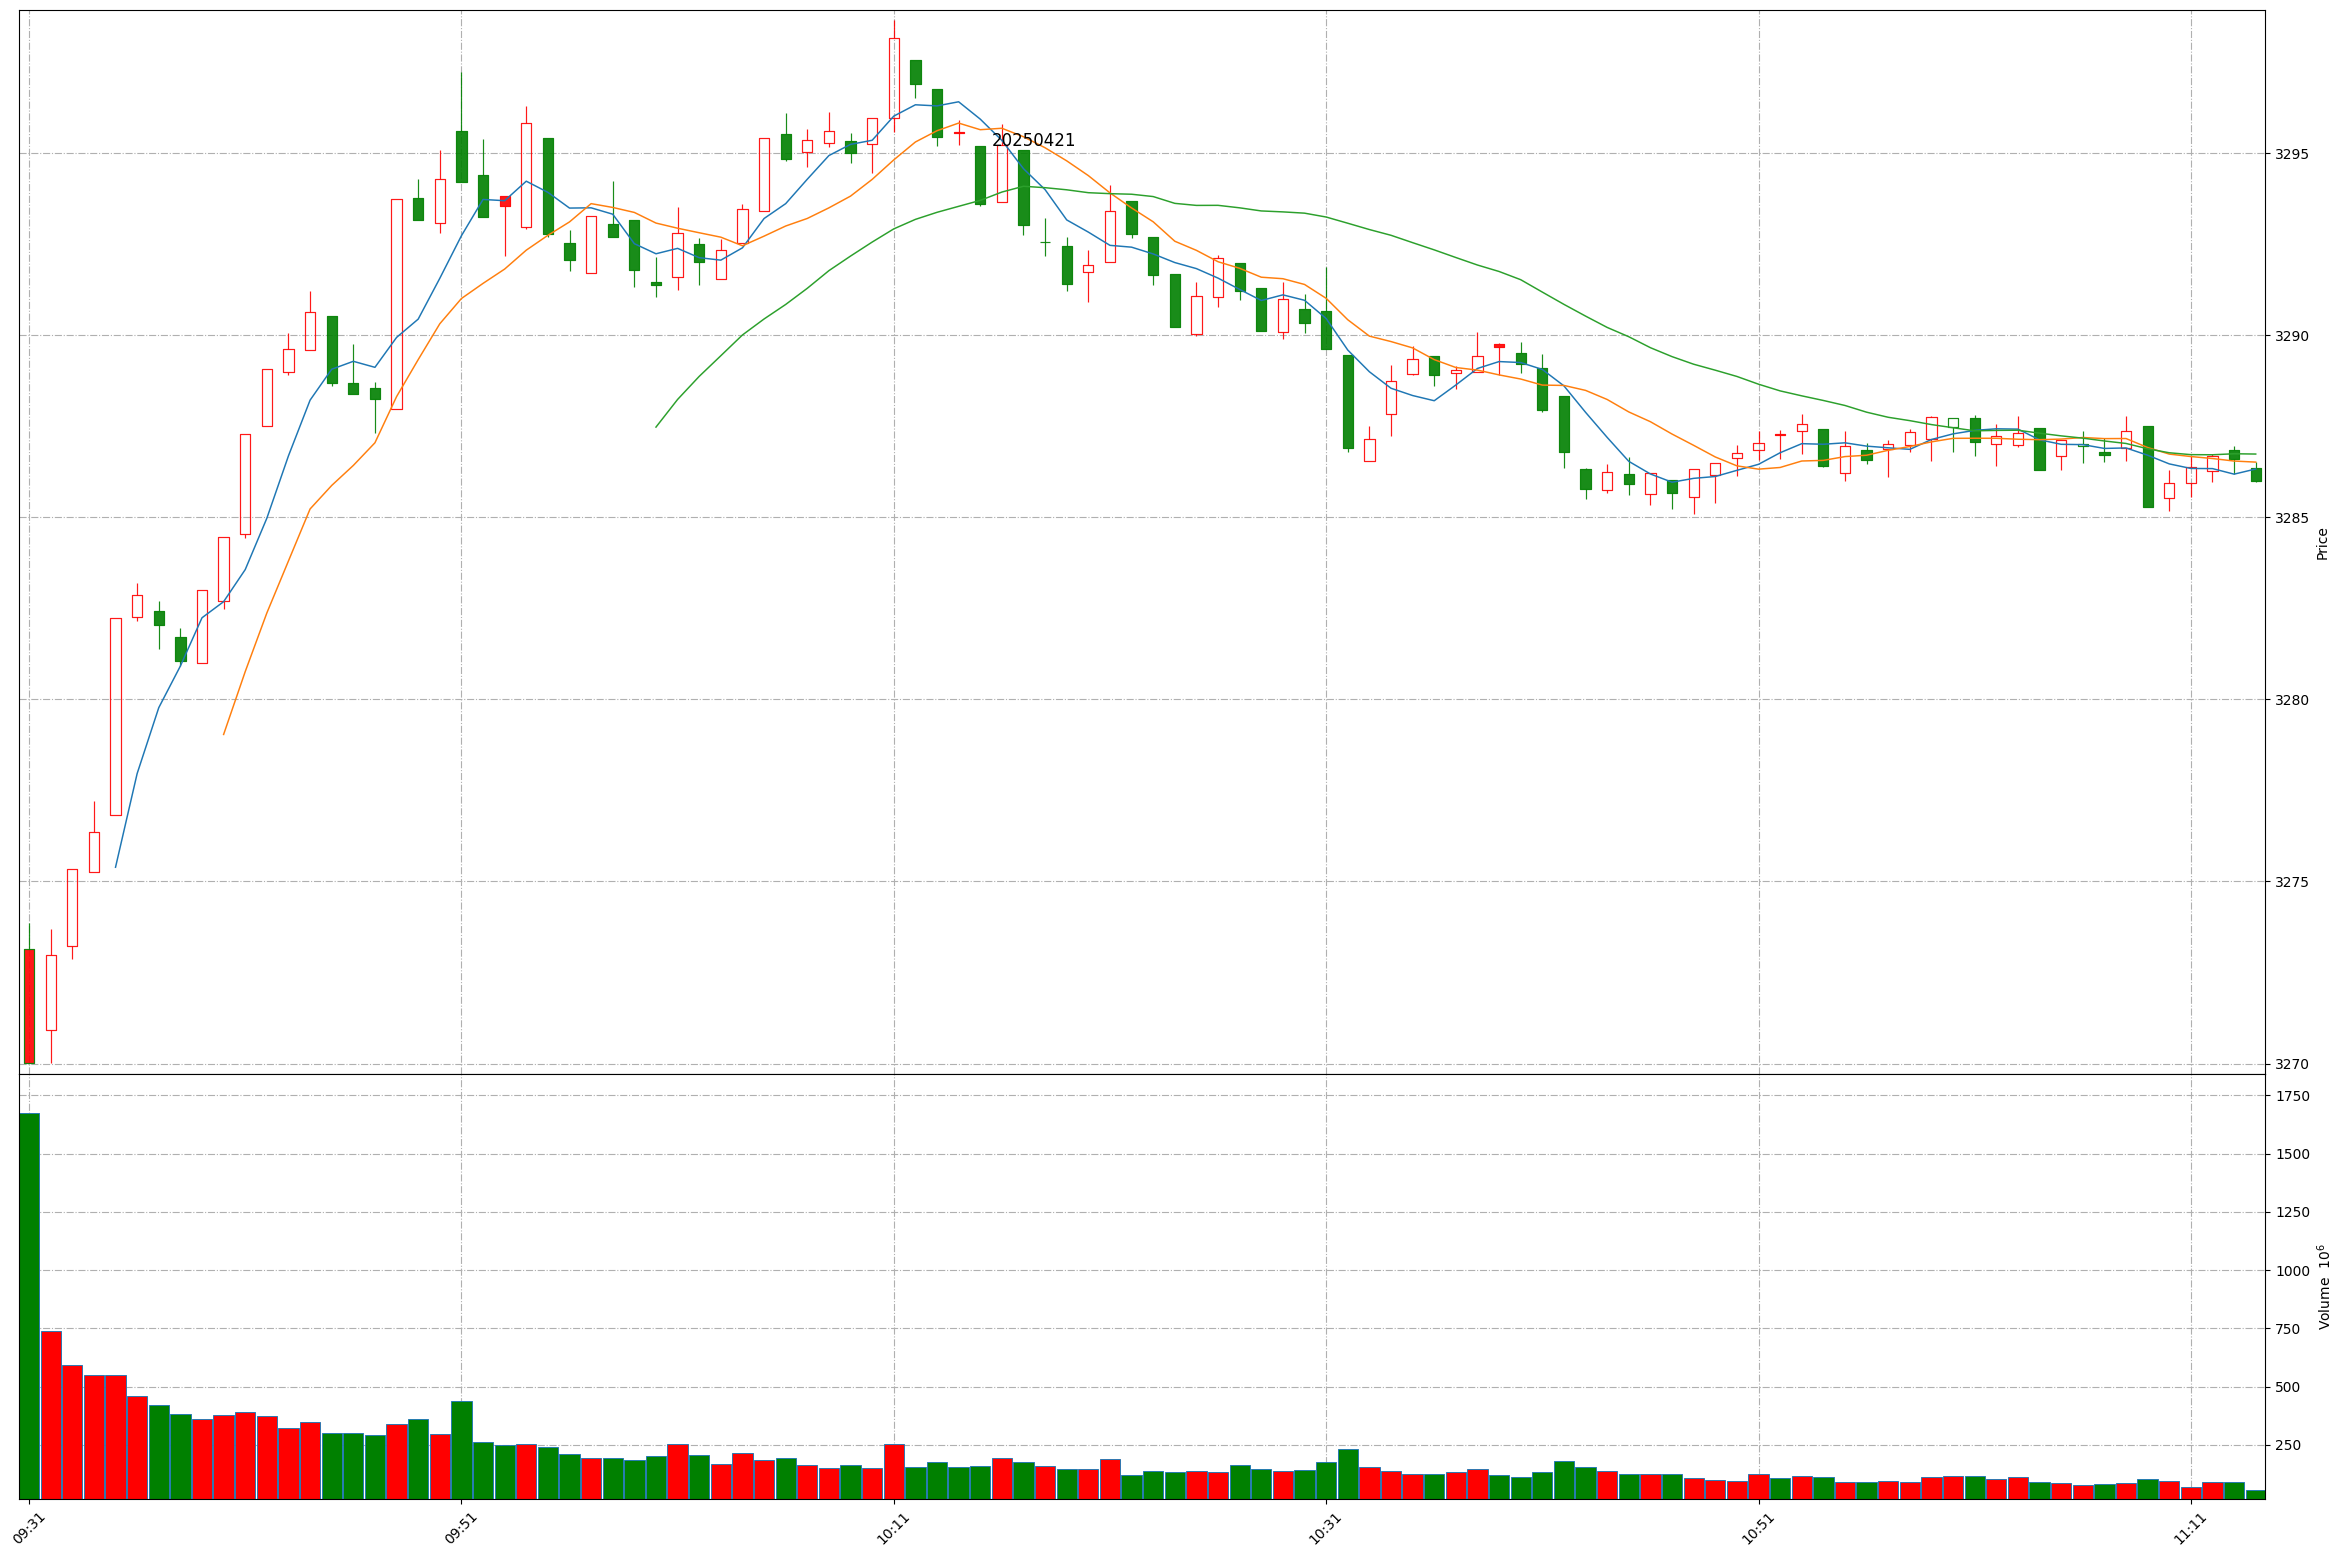
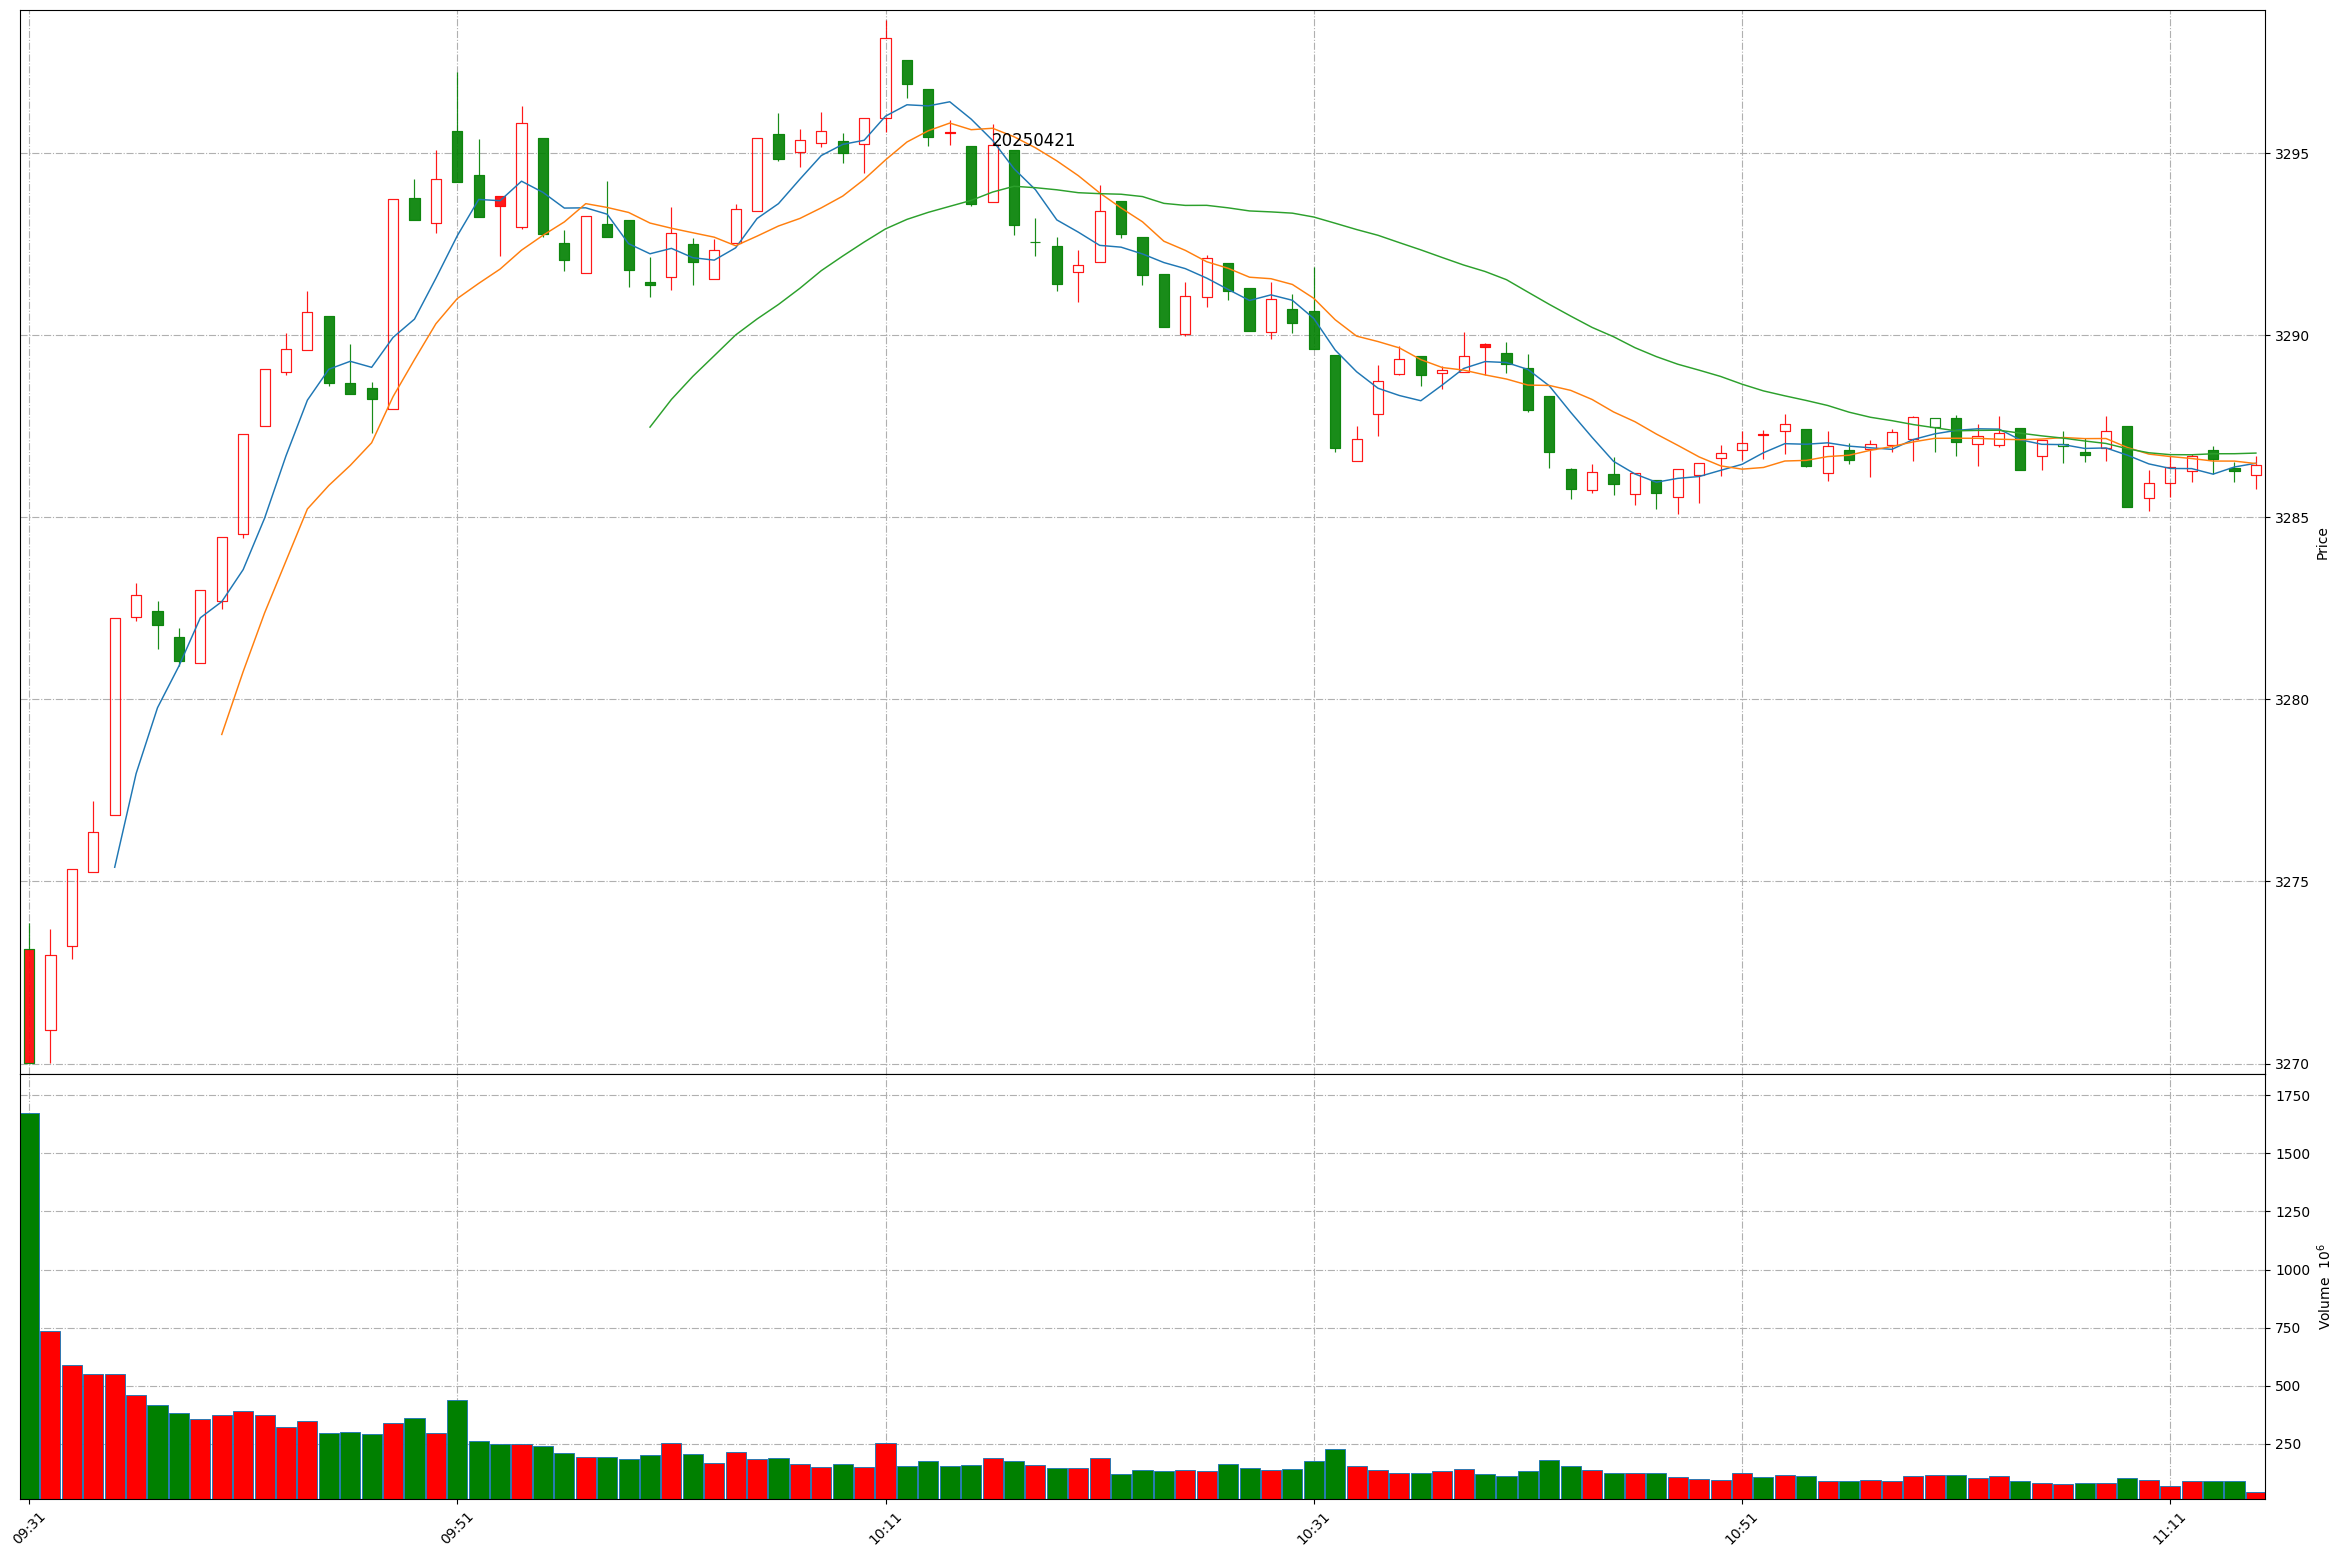
Github action update at 2025-04-21 11:14:41.

diff --git a/README.md b/README.md
@@ -1,11 +1,11 @@
 
 # Daily-A-share-market-quotes 每日 A 股指数（5min 更新）- 20250421
 
-### 上证指数 20250421 11:13
+### 上证指数 20250421 11:14
 ![](./fig/2025/4/20250421-sh000001.png)
 
-### 深证成指 20250421 11:13
+### 深证成指 20250421 11:14
 ![](./fig/2025/4/20250421-sz399001.png)
 
-### 北证50 20250421 11:13
+### 北证50 20250421 11:14
 ![](./fig/2025/4/20250421-bj899050.png)
